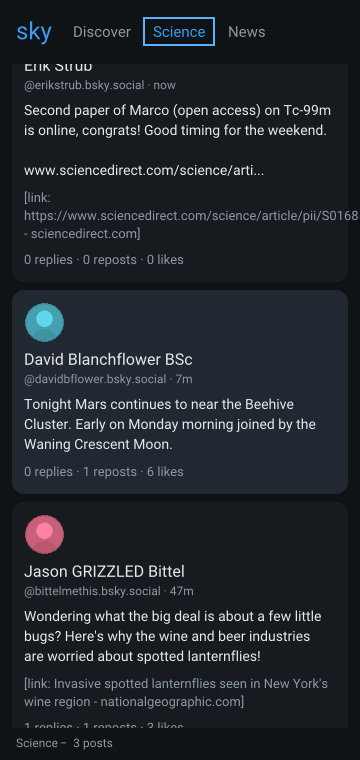
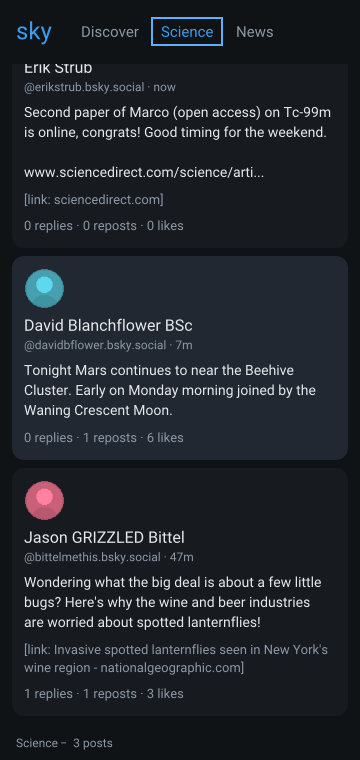
sky: breathing room after the wordmark, and the Science link's host instead of a URI that cannot wrap

diff --git a/solid/app/Sky.tsx b/solid/app/Sky.tsx
@@ -49,7 +49,7 @@ const root = css.cn(css.width("stretch"), css.height("stretch"), css.flexDirecti
 
 // the bar: the wordmark in the accent, then the tablist. The active tab is the accent with the app's 2px underline, and
 // a hover lightens the one under the pointer (Clay draws a border inside the box, so the underline moves no layout).
-const bar = css.cn(css.width("stretch"), css.height(64), css.p(0, 16), css.gap(12), css.alignItems("center"), css.bg(t.color.page));
+const bar = css.cn(css.width("stretch"), css.height(64), css.p(0, 16), css.gap(20), css.alignItems("center"), css.bg(t.color.page));
 const wordmark = css.cn(font.Roboto, css.color(t.color.accent), css.fontSize(24));
 const tablist = css.cn(css.gap(2), css.alignItems("center"));
 const tab = css.cn(
@@ -101,9 +101,9 @@ const meta = css.cn(font.Roboto, css.color(t.color.muted), css.fontSize(12), css
 // the text, and only then does Clay wrap it
 const bodyBox = css.cn(css.width("stretch"));
 const body = css.cn(font.Roboto, css.color(t.color.ink), css.fontSize(14), css.lineHeight(20), css.whiteSpace("normal"));
-// a media line wraps at spaces. One unbreakable word (the Science link's URL) is drawn wider than the card: Clay breaks
-// only at spaces, so that line runs over the gutter and is cut by the feed at the window's edge (a clip box of its own
-// collapses a FIT height, so there is no card-edge scissor here; see the README).
+// a media line wraps at spaces. Clay breaks only at spaces, so a media line must not contain a word wider than the card
+// (a sixty-character URL would run over the gutter): the app's own fallback for a link with no title is the host, which
+// is what the Science post carries here.
 const media = css.cn(font.Roboto, css.color(t.color.muted), css.fontSize(13), css.lineHeight(18), css.whiteSpace("normal"));
 const counts = css.cn(font.Roboto, css.color(t.color.muted), css.fontSize(13), css.lineHeight(18));
 
@@ -233,7 +233,7 @@ const SCIENCE: readonly Post[] = [
     text:
       "Second paper of Marco (open access) on Tc-99m is online, congrats! Good timing for the weekend.\n\n" +
       "www.sciencedirect.com/science/arti...",
-    media: "[link: https://www.sciencedirect.com/science/article/pii/S0168583X26003356 - sciencedirect.com]",
+    media: "[link: sciencedirect.com]", // the app's external embed with no title: the host, not a 60-char URI
     replies: 0,
     reposts: 0,
     likes: 0,

diff --git a/solid/sky.test.ts b/solid/sky.test.ts
@@ -199,13 +199,13 @@ function fresh() {
   check("Up comes back", p.offset(), 0);
   p.tap("ArrowDown");
   p.tap("ArrowDown");
-  check("two Downs: -80", p.offset(), -80);
+  check("two Downs clamp at the content (742 - 664): -78", p.offset(), -78);
   p.tap("Home");
   check("Home returns to the top", p.offset(), 0);
   p.tap("End");
-  check("End goes to the last screenful: 778 - 664", p.offset(), -114);
+  check("End goes to the last screenful: 742 - 664", p.offset(), -78);
   p.tap("PageDown");
-  check("PageDown at the end does not pass it", p.offset(), -114);
+  check("PageDown at the end does not pass it", p.offset(), -78);
   p.tap("PageUp");
   check("PageUp a viewport (664) reaches the top from the end", p.offset(), 0);
   p.tap("Home");
@@ -233,7 +233,7 @@ function fresh() {
   check("the status says the feed is empty", p.status(), "News — 0 posts");
   const b0 = p.box("sky-tabs-tab-0");
   const b2 = p.box("sky-tabs-tab-2");
-  check("the bar still holds the three tabs", [b0[0], b2[0]! + b2[2]!].map((v) => Math.round(v! * 100) / 100), [63.89, 275.86]);
+  check("the bar still holds the three tabs", [b0[0], b2[0]! + b2[2]!].map((v) => Math.round(v! * 100) / 100), [71.89, 283.86]);
   p.clickOn("sky-tabs-tab-0");
   check("and Discover comes back", p.card(0).length, 4);
 }

diff --git a/solid/README.md b/solid/README.md
@@ -415,7 +415,7 @@ post count, or the card a click selected.
 | The cards | the panel, radius 12, padding 12, gap 8, the author's 40x40 avatar, the name and the handle with its age, the body, the media line and the counts; the palette is `terminal/sky_styles.ts`'s (the sky dark and light themes, not the web app's Mu theme). A click records the card in a signal (the status line names it) and nothing else: there is no thread screen yet. |
 | The avatars | `css.image(path, { width: 40, height: 40 })` — the six committed 64x64 PNGs of `examples/sky/avatars.py` (a disc in the author's hue, transparent outside it, so the panel shows at the box's corners). The path is a literal per author because a css style is evaluated when its module loads: a page cannot build one from a loop variable. This is the first page that uses `css.image` in the Solid path. |
 | Wrapping | new on this page: a body is a `text` with `whiteSpace("normal")` and `lineHeight(20)` inside a stretch box inside a card of percent width, and Clay wraps it. (A clip element lets its children grow past the viewport for their content, so a card that must wrap cannot take its width from a stretch inside the feed: the card is `width("100%")`.) |
-| Scrolling | the wheel moves the feed under the pointer (Clay's own container, 10px a notch, as on the List page); one Tab stop on the feed takes Down/Up 40px, PageDown/PageUp a viewport and Home/End to the ends through `ui_scroll_to` (clamped by `ui.c`). Discover's three short posts fit the 664px viewport, so the wheel frame and the test scroll **Science** (778px of content). |
+| Scrolling | the wheel moves the feed under the pointer (Clay's own container, 10px a notch, as on the List page); one Tab stop on the feed takes Down/Up 40px, PageDown/PageUp a viewport and Home/End to the ends through `ui_scroll_to` (clamped by `ui.c`). Discover's three short posts fit the 664px viewport, so the wheel frame and the test scroll **Science** (742px of content). |
 
 | Frame | Keys | Shows |
 | --- | --- | --- |
@@ -442,9 +442,9 @@ No thread screen, so a card click only selects. No images in post media — the 
 `[video]`, `[link: …]`), as in the terminal. No avatars beyond the six committed PNGs (a real author's avatar is a remote
 file). No scroll momentum and no drag scrolling (the press belongs to the cards). The name and the handle are two lines,
 not the app's one row: the longest pair does not fit the 312px card and Clay has no ellipsis. A media line wraps at
-spaces, but the Science link's unbreakable URL is drawn wider than the card and clipped by the feed at the window's edge
-(Clay breaks only at spaces; a clip box of its own would not wrap the text, and a FIT clip collapses). And the light
-theme is the TUI palette's light one, not the system's.
+spaces only, so a word wider than the card would run over the gutter: the Science link carries the app's own fallback
+for an embed with no title, the host (`[link: sciencedirect.com]`), not its 60-character URI. And the light theme is the
+TUI palette's light one, not the system's.
 
 ## The accessibility tree
 

diff --git a/docs/map.md b/docs/map.md
@@ -311,8 +311,8 @@ Each step ends in a check that fails when it breaks.
    by eye: the four frames, zoomed — the bar's underline, the name and handle, the counts' `·`, the avatar discs. Left:
    no fetching or paging (three recorded posts per feed), no thread screen, no post images (a media line), no avatars
    beyond the six committed, no momentum or drag scrolling, the name and handle on two lines because the pair does not
-   fit 312px (Clay has no ellipsis), and an unbreakable URL in a media line drawn to the window's edge (Clay breaks only
-   at spaces, so the Science link runs over the card's gutter before the feed cuts it).
+   fit 312px (Clay has no ellipsis), and media lines that wrap at spaces only, so the Science link shows the embed's host
+   instead of its 60-character URI (the app's own fallback when a link has no title).
 5. **JSX to C.** The same component evaluated at build time to C calls, for targets with no JS. Check: its render
    commands equal step 4's for the same state.
    **Done: the evaluator** (`generator/page-to-c.ts`, `bun --conditions=development`). It imports `solid/plugin.ts`
